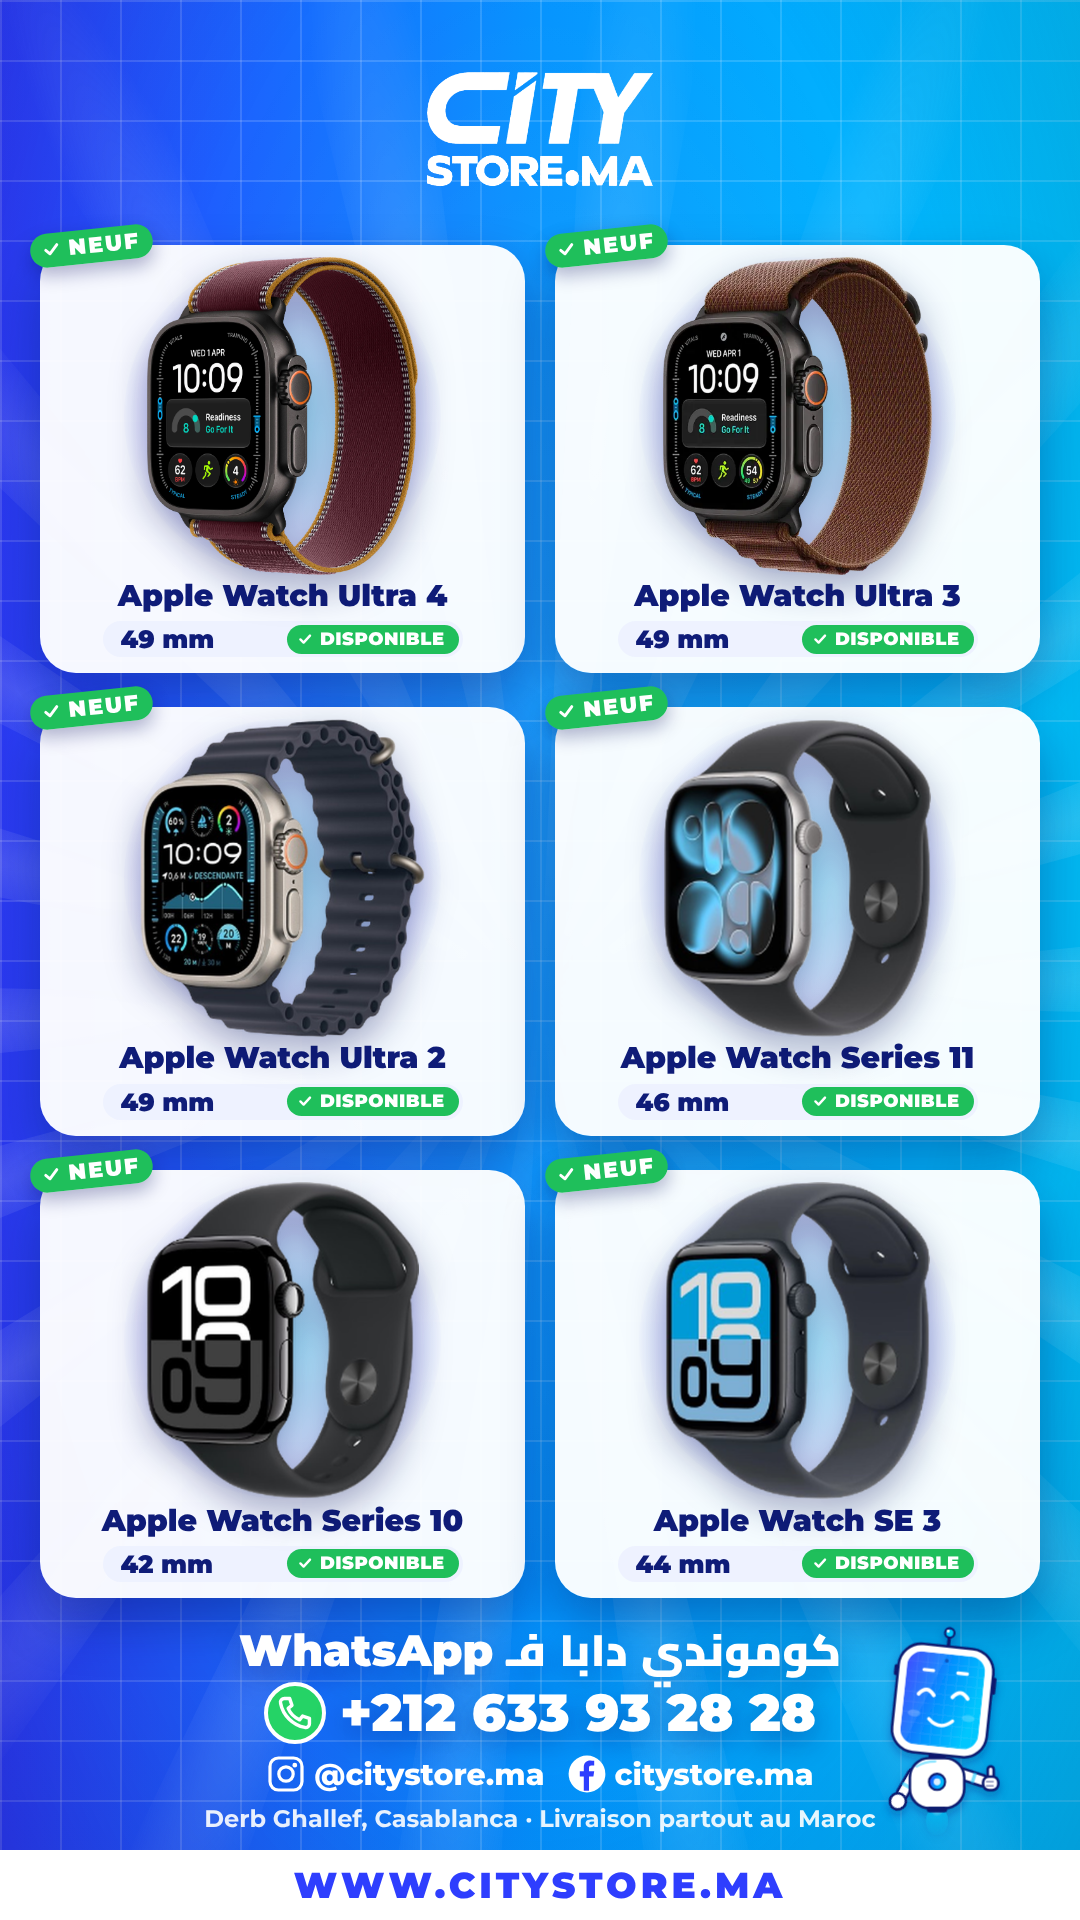
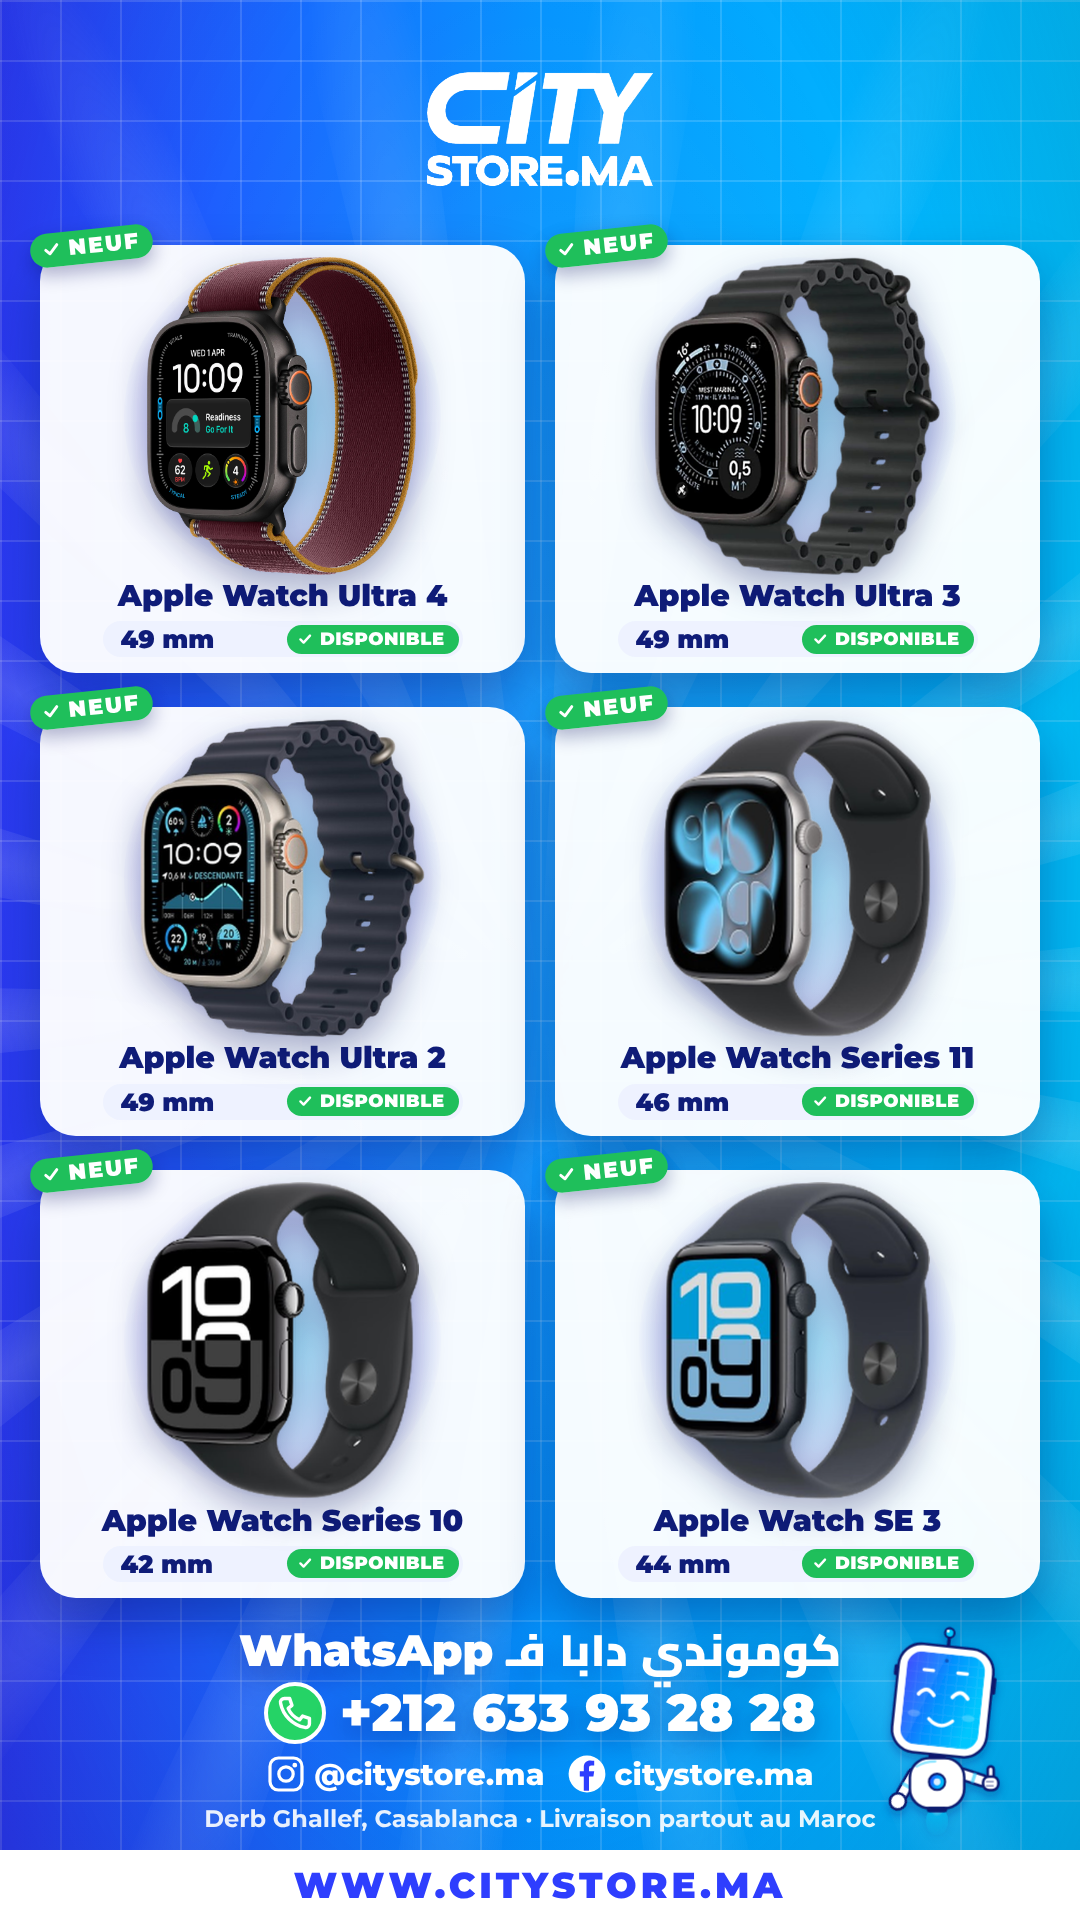
Apple Watch story: Ultra 3 back to its original image
Claude-Session: https://claude.ai/code/session_01B6UvVnyVQqoyQ1GwELGaCV

Changed region(s): [[0.5806, 0.125, 0.8861, 0.3125]]

diff --git a/src/pricelist/lists.ts b/src/pricelist/lists.ts
@@ -38,7 +38,7 @@ export const PRICE_LISTS: Record<string, PriceListProps> = {
   watches: {
     items: [
       { name: "Apple Watch Ultra 4", img: "pricelist/watches/ultra4.png", stock: ["49 mm"] },
-      { name: "Apple Watch Ultra 3", img: "pricelist/watches/ultra3.png", stock: ["49 mm"] },
+      { name: "Apple Watch Ultra 3", img: "ultra3/products/angle.png", stock: ["49 mm"] },
       { name: "Apple Watch Ultra 2", img: "pricelist/watches/ultra2_single.png", stock: ["49 mm"] },
       { name: "Apple Watch Series 11", img: "pricelist/watches/series11.png", stock: ["46 mm"] },
       { name: "Apple Watch Series 10", img: "pricelist/watches/series10.png", stock: ["42 mm"] },

diff --git a/assets/pricelist/watches/SOURCES.md b/assets/pricelist/watches/SOURCES.md
@@ -1,6 +1,7 @@
 # Apple Watch availability list: sources
 - Ultra 4: `src/apple_watch_ultra4_black_burgundy.webp` (supplied, 2000 px, black + burgundy Trail Loop) -> `ultra4.png`.
-- Ultra 3: `src/apple_watch_ultra3_black_brown.webp` (supplied, black + brown Alpine Loop) -> `ultra3.png`.
+- Ultra 3 (black): `public/ultra3/products/angle.png` (official render from the Ultra 3 reel).
+  (`src/apple_watch_ultra3_black_brown.webp` -> `ultra3.png` was tried and is kept but not used.)
 - Ultra 2: `src/apple_watch_ultra2_natural_navy.png` (supplied, 301 px, natural + navy Ocean Band) -> `ultra2_single.png` (upscaled 3x).
   (The earlier natural + black pair `ultra2.png` is kept but no longer used.)
 - Series 11: `src/apple_watch_series11.png` (supplied, 301 px) -> `series11.png` (trimmed, upscaled 3x).
